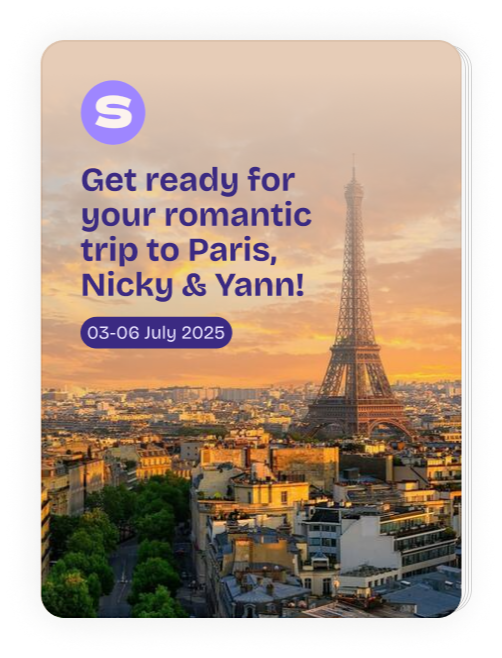
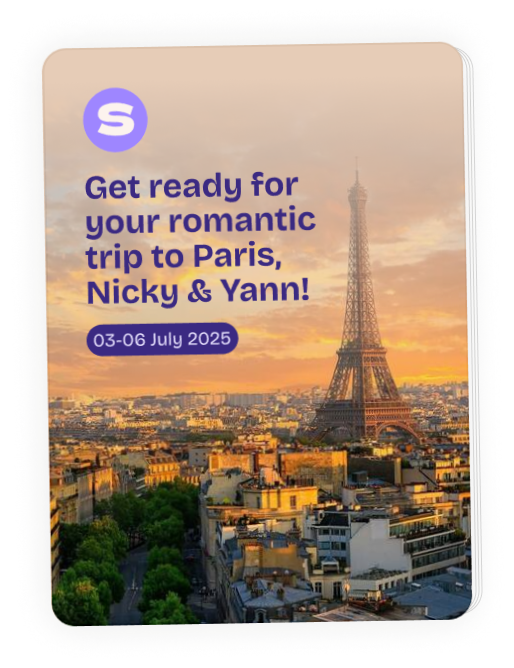
Uprava hlavicky detailu

Changed region(s): [[0.0598, 0.0608, 0.9562, 0.9422], [0.1494, 0.1216, 0.6275, 0.5471], [0.0896, 0.0608, 0.7171, 0.0912]]

diff --git a/styles.css b/styles.css
@@ -513,32 +513,36 @@ hr.svg-divider {
         }
 }
 @media (max-width: 430px) {
-    .intro {
-        position: relative;
+    .intro-placeholder {
+        position: absolute;
         width: 100%;
-        height: 100%;
-        overflow: hidden;
+        height: auto; /* Adjust height as needed */
+        top: -10px;
+        left: 0;
+        -webkit-mask-image: none; /* Remove mask */
+        mask-image: none; /* Remove mask */
     }
 
-    .intro-placeholder {
-        width: 100%;
-        right: 24%;
-        top: -100px;
-    }
-    .intro-content {
+    .intro-images {
         position: relative;
-        padding: 160px 0 0 20px;
-        width: 90%;
+        width: 100%;
+        height: auto; /* Adjust height as needed */
+        left: 0;
+        -webkit-mask-image: none; /* Remove mask */
+        mask-image: none; /* Remove mask */
     }
 
     .intro-image {
         width: 100%;
-        height: 100%;
-        object-fit: cover; 
-        object-position: top;
+        height: auto; /* Adjust height as needed */
+        object-fit: cover; /* Ensure the image covers the area */
+        object-position: top; /* Adjust as needed */
+        border-radius: 0 0 24px 24px;
     }
-
     .intro-title {
+        margin-right: 20px;
+        padding-top: 16px;
+        padding-left: 16px;
         font-size: 36px;
         line-height: 40px;
         margin-top: 0;
@@ -546,7 +550,8 @@ hr.svg-divider {
         letter-spacing: -1.04px;
         font-weight: 800;
         hyphens: manual;
-        display: inline;
+        display: block;
+        border-radius: 16px;
         background-color: var(--background-color);
     }
 
@@ -554,12 +559,9 @@ hr.svg-divider {
         display: inline;
         font-size: 18px;
         line-height: 26px;
-        background-color: #FCF3EE;
-        border-radius: 20px;
         box-decoration-break: clone; /* Ensure the background follows each line */
         -webkit-box-decoration-break: clone; /* Webkit support */
-    }
-
+        }
     .button {
         margin-top: 20px;
         padding: 16px 48px 16px 48px;
@@ -574,13 +576,14 @@ hr.svg-divider {
         right: 15px;
         }
     .arrow {
-        transform: scaleY(-1);
-        position: relative;
-        display: inline;
+        position: absolute;
+        display: inline-block;
+        padding-left: 40%;
         border: 0;
-        top: 10px;
+        top: 150px;
         left: 0;
         z-index: 1000;
+        margin: auto;
         }
 
     .arrow img {
@@ -793,12 +796,12 @@ hr.svg-divider {
     }
     
     .testimonial-card {
-        padding: 20px;
+        padding: 32px;
         margin: auto;
         min-width: 0;
     }
     .testimonial-text {
-        font-size: 16px;
+        font-size: 18px;
         line-height: 1.5;
         margin-bottom: 16px;
     }
@@ -809,12 +812,12 @@ hr.svg-divider {
         height: 32px;
     }
     .author h3 {
-        font-size: 15px;
+        font-size: 16px;
     }
 
     .author p {
-        font-size: 12px;
-        margin-top: 0;
+        font-size: 14px;
+        margin-top: 4px;
     }
 
 
@@ -1345,7 +1348,7 @@ footer {
 
 .contents-header h2 {
     font-size: 44px;
-    color: #2F2219;
+    color:var(--text-color);
     margin-bottom: 24px;
 }
 
@@ -1355,7 +1358,6 @@ footer {
     font-weight: 300;
     line-height: 32px; /* 133.333% */
     letter-spacing: 0;
-    color: #2F2219;
     padding-bottom: 20px;
 }
 
@@ -1513,8 +1515,8 @@ footer {
     }
 
     .card-content p {
-        font-size: 16px;
-        line-height: 22px;
+        font-size: 18px;
+        line-height: 150%;
     }
 } 
 
@@ -1773,8 +1775,8 @@ footer {
 }
 
 .faq-header h2 {
-    font-size: 36px;
-    color: #2F2219;
+    font-size: 44px;
+    color: var(--text-color);
     margin-bottom: 6px;
 }
 
@@ -1907,6 +1909,8 @@ footer {
     .faq-header p {
         font-size: 18px;
         line-height: 26px;
+        width: 90%;
+        margin: auto;
     }
 }
 /* Index animation scroller */

diff --git a/barcelona.html b/barcelona.html
@@ -21,7 +21,7 @@
             </div>
         </div>     
         <div class="intro-content">
-            <p><h1 class="intro-title">Get a <span class="highlight">per&shy;sona&shy;lized</span> Bar&shy;ce&shy;lona iti&shy;ne&shy;ra&shy;ry: Relax and enjoy your vacation</h1><p class="arrow"><img src="img/arrow.png"></p></p>
+            <p><h1 class="intro-title">Get a <span class="highlight">per&shy;sona&shy;lized</span> Bar&shy;ce&shy;lona iti&shy;ne&shy;ra&shy;ry: Relax and enjoy your city trip</h1><p class="arrow"><img src="img/arrow.png"></p></p>
             <p class="intro-description">Forget the stress and hours of planning and experience <strong>a&nbsp;truly authentic Barcelona adventure</strong>, tailored to your interests and time constraints. </p><div class="empty"></div><div class="empty"></div>
             <button class="button button--mimas"><span>Get your itinerary</span></button>
         </div>
@@ -234,6 +234,10 @@
 </section>
 <hr class="svg-divider">
 <section class="testimonials">
+    <div class="faq-header">
+        <h2>See why people love our itineraries...</h2>
+        <p>In a nutshell: Hassle-free travel planning, great tips, local recommendations and lots of fun!</p>
+    </div>
     <div class="testimonial-cards">
         <div class="testimonial-card">
             <div class="quote-mark"><img src="img/quotation-mark-1.svg" alt="Quotation Mark"></div>
@@ -266,7 +270,7 @@
 <section class="faq">
     <div class="faq-container">
         <div class="faq-header">
-            <h2>Frequently Asked Questions</h2>
+            <h2>Questions you might ask</h2>
             <p>Still not sure about your personalized Barcelona itinerary?</p>
         </div>
         

diff --git a/index.html b/index.html
@@ -105,6 +105,10 @@
           </section>
         <!-- Testimonials Section-->
         <section class="testimonials hp">
+            <div class="faq-header">
+                <h2>See why people love our itineraries...</h2>
+                <p>In a nutshell: Hassle-free travel planning, great tips, local recommendations and lots of fun!</p>
+            </div>
             <div class="testimonial-cards">
                 <div class="testimonial-card">
                     <div class="quote-mark"><img src="img/quotation-mark-1.svg" alt="Quotation Mark"></div>
